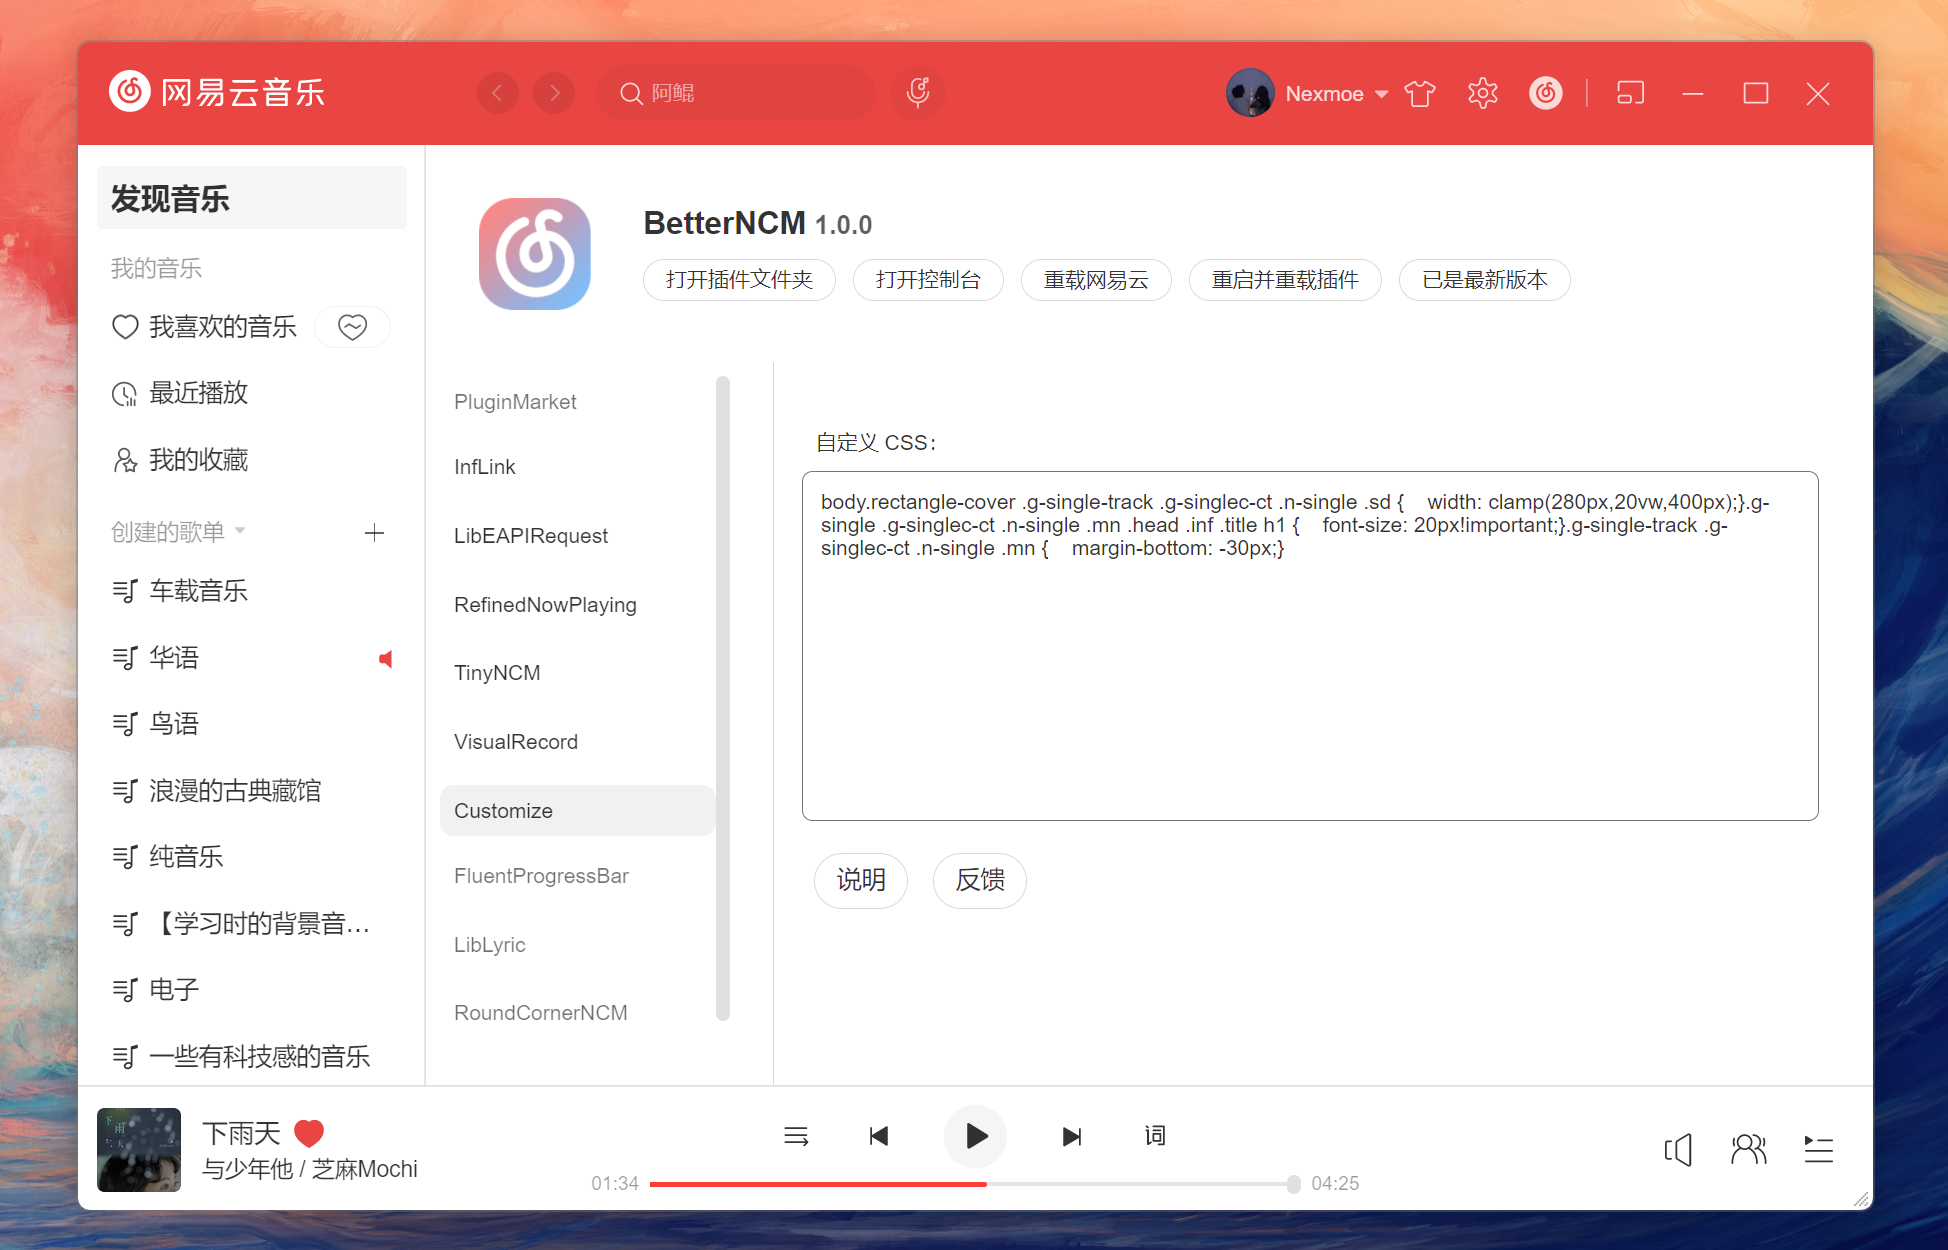
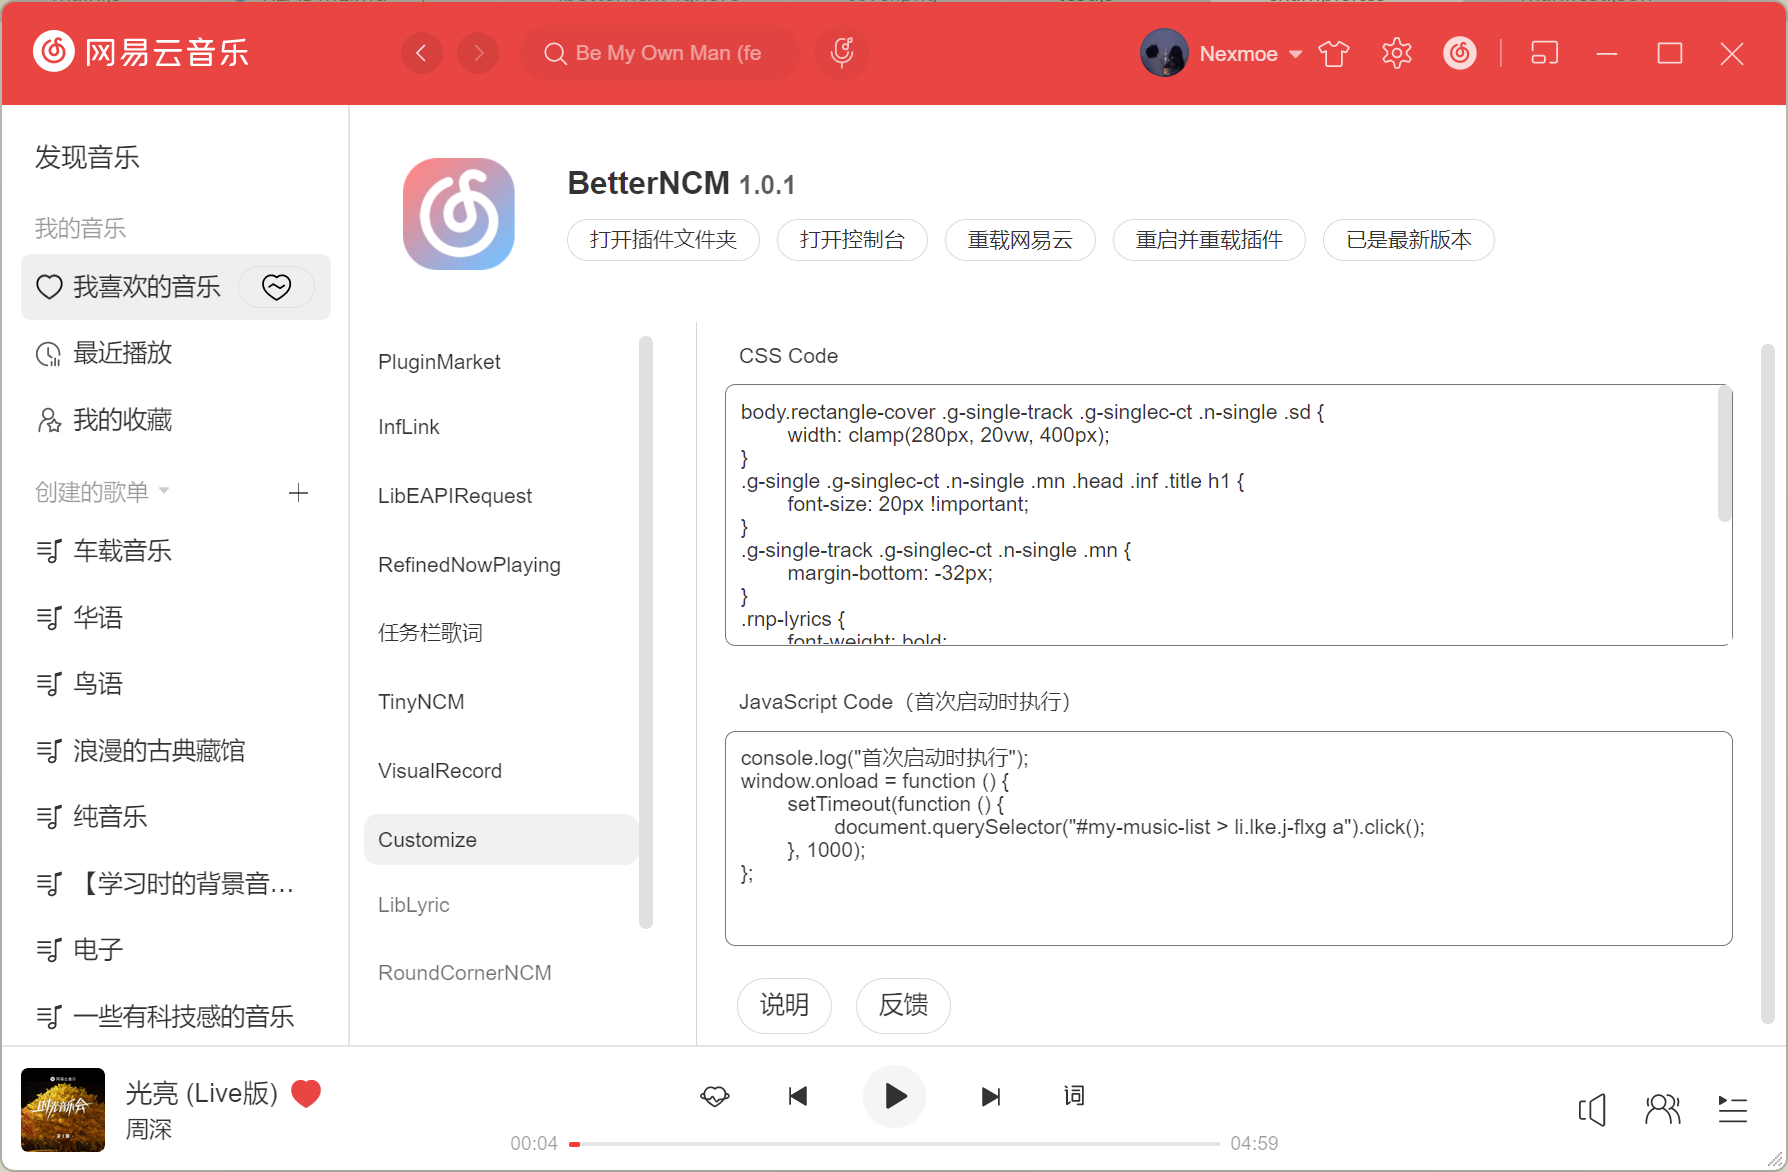
feat: add JS inject #1

diff --git a/main.js b/main.js
@@ -7,9 +7,13 @@ async function styleLoader() {
     document.head.appendChild(style);
 }
 
-function styleUpdate(val) {
-    const style = document.getElementById("customizeCss");
-    style.innerHTML = val;
+function scriptLoader() {
+    (new Function(plugin.getConfig("customizeJS", "")))();
+}
+
+function update(id, val) {
+    const dom = document.getElementById(id);
+    dom.innerHTML = val;
 }
 
 plugin.onConfig((tools) => {
@@ -17,29 +21,48 @@ plugin.onConfig((tools) => {
     return dom(
         "div",
         {},
-        dom("br", {}),
         dom(
             "div",
             {},
             dom("p", {
-                innerText: "自定义 CSS：",
+                innerText: "CSS Code",
                 style: { margin: "10px 8px" },
             }),
             dom("textarea", {
                 innerText: plugin.getConfig("customizeCss", ""),
+                resize: "vertical",
+                rows: 10,
                 oninput: (event) => {
                     plugin.setConfig("customizeCss", event.target.value)
-                    styleUpdate(event.target.value);
+                    update("customizeCss", event.target.value);
                 },
-                style: { width: "100%", height: "200px", borderRadius: "0.5em", padding: "8px" },
+                style: { width: "100%", borderRadius: "0.5em", padding: "8px" },
             })
         ),
         dom("br", {}),
         dom(
             "div",
             {},
-             tools.makeBtn("说明", () => betterncm.ncm.openUrl("https://github.com/nexmoe/betterncm-plugin-customize#readme"), false),
+            dom("p", {
+                innerText: "JavaScript Code（首次启动时执行）",
+                style: { margin: "10px 8px" },
+            }),
+            dom("textarea", {
+                innerText: plugin.getConfig("customizeJS", ""),
+                rows: 8,
+                oninput: (event) => {
+                    plugin.setConfig("customizeJS", event.target.value)
+                },
+                style: { width: "100%", borderRadius: "0.5em", padding: "8px" },
+            })
+        ),
+        dom("br", {}),
+        dom(
+            "div",
+            {},
+            tools.makeBtn("说明", () => betterncm.ncm.openUrl("https://github.com/nexmoe/betterncm-plugin-customize#readme"), false),
             tools.makeBtn("反馈", () => betterncm.ncm.openUrl("https://github.com/nexmoe/betterncm-plugin-customize/issues"), false),
+            tools.makeBtn("社区", () => betterncm.ncm.openUrl("https://github.com/nexmoe/betterncm-plugin-customize/discussions"), false),
         ),
 
     );
@@ -47,4 +70,5 @@ plugin.onConfig((tools) => {
 
 plugin.onLoad(async () => {
     styleLoader();
+    scriptLoader();
 });

diff --git a/example.css b/example.css
@@ -1,9 +1,19 @@
 body.rectangle-cover .g-single-track .g-singlec-ct .n-single .sd {
-    width: clamp(280px,20vw,400px);
+	width: clamp(280px, 20vw, 400px);
 }
 .g-single .g-singlec-ct .n-single .mn .head .inf .title h1 {
-    font-size: 20px!important;
+	font-size: 20px !important;
 }
 .g-single-track .g-singlec-ct .n-single .mn {
-    margin-bottom: -30px;
+	margin-bottom: -32px;
+}
+.rnp-lyrics {
+	font-weight: bold;
+}
+.m-nav li a,
+.m-nav li .edt {
+	border-radius: 6px !important;
+}
+.m-nav li.z-sel a {
+	background: rgba(31, 33, 51, 0.07);
 }

diff --git a/README.md b/README.md
@@ -1,23 +1,58 @@
 <div align="center"><image width="140em" src="https://user-images.githubusercontent.com/66859419/183120498-1dede5b4-0666-4891-b95f-c3a812b3f12f.png" /></div>
 <h1 align="center">BetterNCM Plugin Customize</h1>
-<h3 align="center">注入你的 CSS，让网易云变成你的形状</h3>
+<p align="center">注入你的 CSS，让网易云变成你的形状</p>
 
 ![cover](./cover.png)
 
 ## Example
 
-以下代码魔改了 RedefineNowPlaying，保存后可能需要重启网易云音乐
+### CSS
+
+以下 CSS 代码魔改了 RedefineNowPlaying
 
 ```css
 body.rectangle-cover .g-single-track .g-singlec-ct .n-single .sd {
-    width: clamp(280px,20vw,400px);
+	width: clamp(280px, 20vw, 400px);
 }
 .g-single .g-singlec-ct .n-single .mn .head .inf .title h1 {
-    font-size: 20px!important;
+	font-size: 20px !important;
 }
 .g-single-track .g-singlec-ct .n-single .mn {
-    margin-bottom: -30px;
+	margin-bottom: -32px;
+}
+.rnp-lyrics {
+	font-weight: bold;
+}
+.m-nav li a,
+.m-nav li .edt {
+	border-radius: 6px !important;
+}
+.m-nav li.z-sel a {
+	background: rgba(31, 33, 51, 0.07);
 }
 ```
 
 ![example](./example.png)
+
+### JavaScript
+
+延迟 1 秒后自动打开我喜欢的音乐
+
+```js
+console.log("首次启动时执行");
+window.onload = function () {
+	setTimeout(function () {
+		document.querySelector("#my-music-list > li.lke.j-flxg a").click();
+	}, 1000);
+};
+```
+
+
+## 教程
+
+- [CSS 基础](https://developer.mozilla.org/zh-CN/docs/Learn/Getting_started_with_the_web/CSS_basics)
+- [JavaScript 基础](https://developer.mozilla.org/zh-CN/docs/Learn/Getting_started_with_the_web/JavaScript_basics)
+
+## 分享你的代码片段
+
+<https://github.com/nexmoe/betterncm-plugin-customize/discussions/new?category=show-and-tell>
